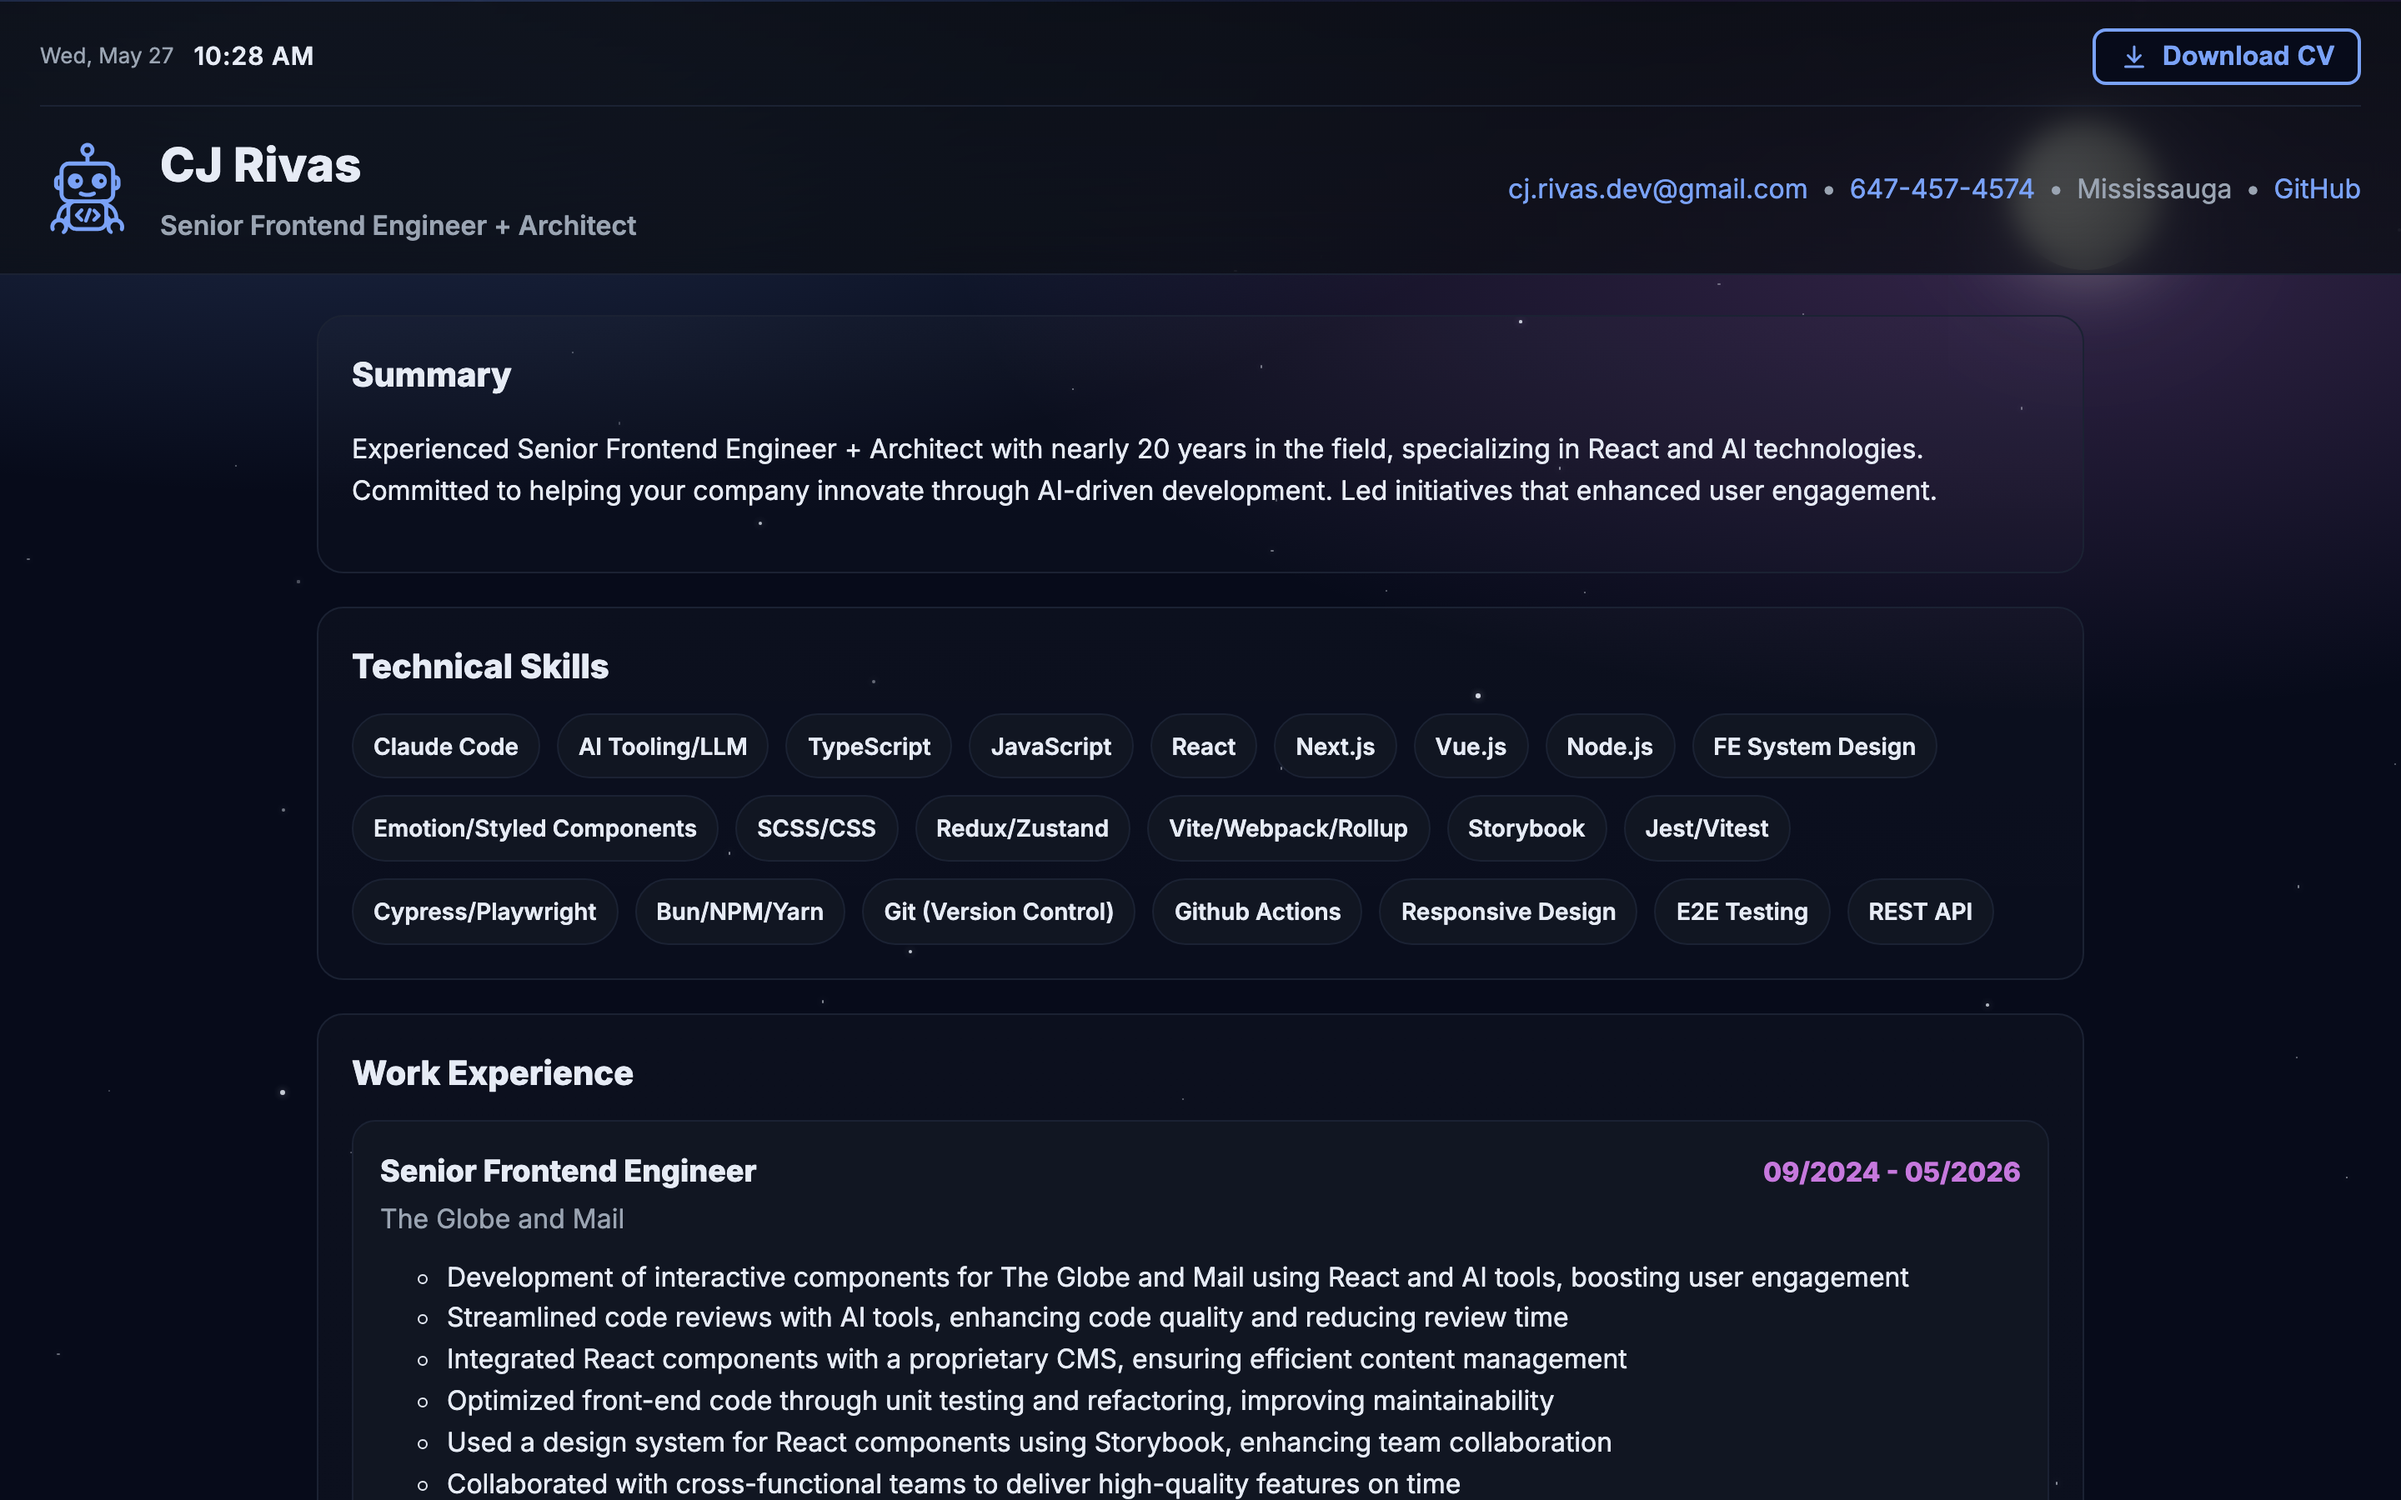
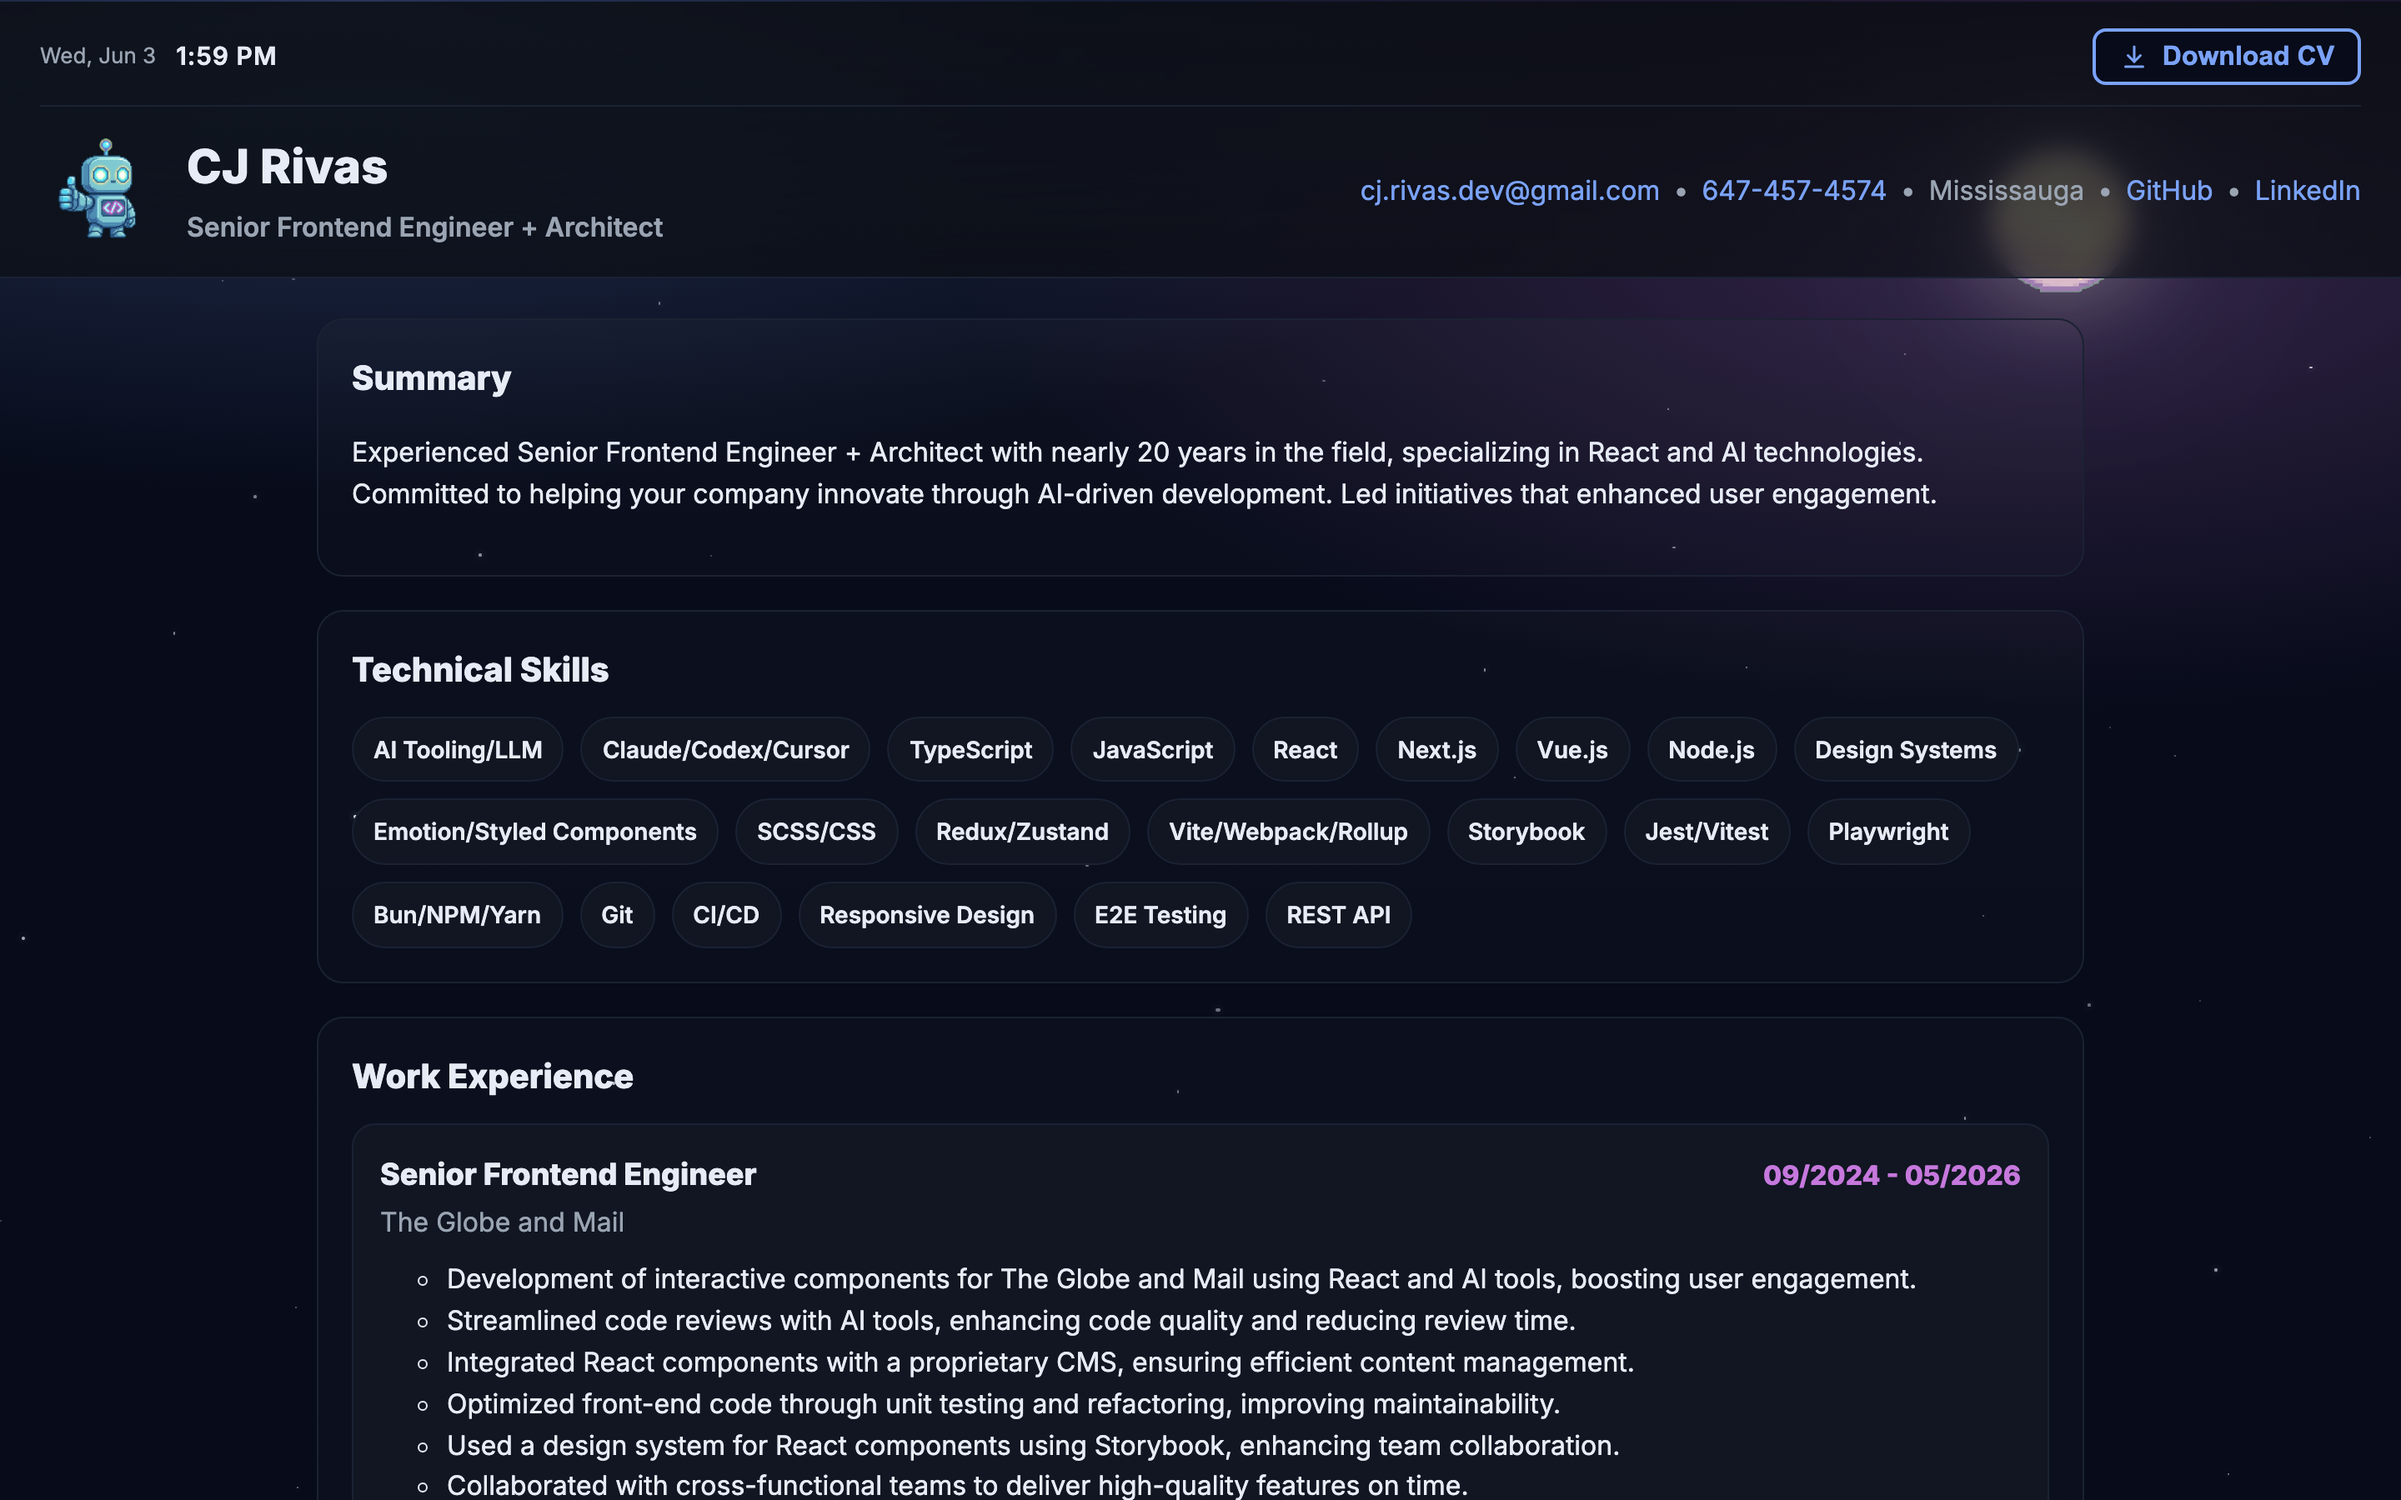
CJR: refresh `README.md` and screenshots for current architecture
- update sky section to reflect 9-cloud PNG sprite sheet and shared sun/moon
- note `Starfield` layer counts (160 + 80 + 30 stars)
- document `skillDescriptions.ts` tooltip lookup
- redraw `src/` tree as flat components dir with `.tsx` + `.module.css` + `.test.tsx` triples
- list `data/` contents (`resume.json`, `skillDescriptions.ts`, pre-rendered CV PDF)
- correct pre-commit hook steps to `ts:check` → `prettier:check` → `lint` → `test` → `build`
- correct pre-push hook to `bun run build` → `bun pre-push`
- regenerate all `docs/screenshots/*.png` against current build

diff --git a/README.md b/README.md
@@ -16,9 +16,10 @@ The background ambient palette changes based on the visitor's local hour. Four d
 | :------------------------------------: | :-----------------------------------: | :------------------------------------: | :--------------------------------------: |
 | ![dawn](docs/screenshots/sky-dawn.png) | ![day](docs/screenshots/hero-day.png) | ![dusk](docs/screenshots/sky-dusk.png) | ![night](docs/screenshots/sky-night.png) |
 
-- 10 hand-crafted SVG cloud shapes, randomized across two parallax layers.
-- Each cloud has independent drift animation (`@keyframes cloudDrift`) and reacts to page scroll via `requestAnimationFrame` for buttery parallax.
-- Night swaps clouds for a three-layer parallax `<Starfield />` and a soft glowing moon.
+- 9 cloud shapes pulled from a single 3×3 PNG sprite sheet (`src/assets/clouds.png`), randomized across two parallax layers.
+- Each cloud has an independent drift animation (`@keyframes cloudDrift`) and reacts to page scroll via `requestAnimationFrame` for buttery parallax.
+- The sun and moon are also rendered from the same sprite sheet, with per-sky positioning.
+- Night swaps the clouds layer for a three-layer parallax `<Starfield />` (160 + 80 + 30 stars, each layer scrolling at a different speed) and a soft glowing moon.
 
 Force a state with `?sky=day|dawn|dusk|night` — handy for screenshots and demos.
 
@@ -50,6 +51,8 @@ A "Download CV" button rasterizes the resume to a single, full-height PDF — us
 ### Data-driven content
 
 The entire resume — name, contact, summary, skills, work history, awards, languages, education — is hydrated from a single `src/data/resume.json` file at module load. Adding a new section is: extend the JSON → add a type → extend the Zustand store → mount a component. No mutations, no async fetch, no setters.
+
+Hover tooltips on each Technical Skills pill are sourced from `src/data/skillDescriptions.ts` — a separate keyed lookup so the resume JSON stays focused on the skill list itself.
 
 ---
 
@@ -87,29 +90,34 @@ The entire resume — name, contact, summary, skills, work history, awards, lang
 
 ```
 src/
-├── App.tsx                ← Composes Sky + Weather + AppHeader + sections
-├── Entry.tsx              ← React root, mounts global styles + applies sky palette
-├── components/            ← One folder per section, paired with .module.css and .test.tsx
-│   ├── AppHeader/         ← Sticky-on-scroll header (IntersectionObserver)
-│   ├── Header/            ← Identity + contact line
-│   ├── Sky/               ← Time-of-day clouds, sun, moon
-│   ├── Starfield/         ← Parallax 3-layer night sky
-│   ├── Weather/           ← Rain / snow overlay
-│   ├── WeatherClock/      ← Live clock + weather indicator in header
-│   ├── Summary/  TechnicalSkills/  WorkExperience/  Awards/  Languages/  Education/  Footer/
-├── data/resume.json       ← Single source of truth for resume content
-├── state/useStore.ts      ← Zustand store, seeded from resume.json at module init
+├── App.tsx                  ← Composes Sky + Weather + AppHeader + sections; owns PDF download flow
+├── Entry.tsx                ← React root, mounts global styles + applies sky palette
+├── components/              ← Flat directory — each component is a .tsx + .module.css + .test.tsx triple
+│   ├── AppHeader.tsx        ← Sticky-on-scroll wrapper; mounts <Header /> + <WeatherClock /> + Download CV button
+│   ├── Header.tsx           ← Identity + contact line (email, phone, location, GitHub, LinkedIn)
+│   ├── Sky.tsx              ← Time-of-day clouds, sun, moon (PNG sprite); swaps to <Starfield /> at night
+│   ├── Starfield.tsx        ← Parallax 3-layer night sky (160 + 80 + 30 stars)
+│   ├── Weather.tsx          ← Rain (140 drops) / snow (90 flakes) overlay; pure CSS animation
+│   ├── WeatherClock.tsx     ← Live clock + weather emoji + temperature (ticks every minute)
+│   ├── Section.tsx          ← Shared <section> + <h2> wrapper used by all content sections
+│   ├── Summary.tsx  TechnicalSkills.tsx  WorkExperience.tsx
+│   ├── Awards.tsx  Languages.tsx  Education.tsx  Footer.tsx
+├── data/
+│   ├── resume.json          ← Single source of truth for resume content
+│   ├── skillDescriptions.ts ← Per-skill tooltip copy keyed by skill name
+│   └── CJ Rivas - Senior Frontend Engineer.pdf  ← Pre-rendered CV (also produced live via Download CV)
+├── state/useStore.ts        ← Zustand store, seeded from resume.json at module init
 ├── styles/
-│   ├── tokens.css         ← :root CSS custom properties (--bg, --accent, --cloud-drift, …)
-│   ├── keyframes.css      ← cloudDrift, rainFall, snowFall, glowPulse
-│   └── global.css         ← resets + @media print rules for PDF export
-├── sky.ts                 ← getCurrentSky(), applySky(), URL override parsing
-├── weather.ts             ← Open-Meteo fetcher, WMO code mapping, URL override parsing
+│   ├── tokens.css           ← :root CSS custom properties (--bg, --accent, --cloud-drift, …)
+│   ├── keyframes.css        ← cloudDrift, rainFall, snowFall, glowPulse
+│   └── global.css           ← resets + @media print rules for PDF export
+├── sky.ts                   ← getCurrentSky(), applySky(), URL override parsing
+├── weather.ts               ← Open-Meteo fetcher, WMO code mapping, URL override parsing
 ├── utils/
-│   ├── dom-utils.ts       ← DOM helpers
-│   └── print-utils.ts     ← waitForAssets() — gates PDF capture on image/font load
-├── types/global.d.ts      ← Ambient types: Experience, Award, Language, Education, Data
-└── test/                  ← Vitest setup
+│   ├── dom-utils.ts         ← DOM helpers
+│   └── print-utils.ts       ← waitForAssets() — gates PDF capture on image/font load
+├── types/global.d.ts        ← Ambient types: Experience, Award, Language, Education, Data
+└── test/                    ← Vitest setup
 ```
 
 ### Path aliases
@@ -158,8 +166,8 @@ bun dev          # http://localhost:4242
 
 Husky runs on every commit and push:
 
-- **pre-commit** — `ts:check` → `prettier` (write) → `lint` → `build`. The commit fails if any step fails. Prettier _writes_ changes, so if formatting was off, the hook fixes the files but does not auto-stage them — re-stage and recommit.
-- **pre-push** — runs `bin/pre-push.sh`, which prints the last 10 commits as a sanity check.
+- **pre-commit** — `ts:check` → `prettier:check` → `lint` → `test` → `build`. The commit fails if any step fails. Because `prettier:check` does not write, you need to run `bun prettier` yourself before committing if formatting is off.
+- **pre-push** — `bun run build` → `bun pre-push` (which runs `bin/pre-push.sh` to print the last 10 commits as a sanity check). Push fails if the build fails, so deps must be installed (`bun install`) before pushing.
 
 ---
 
